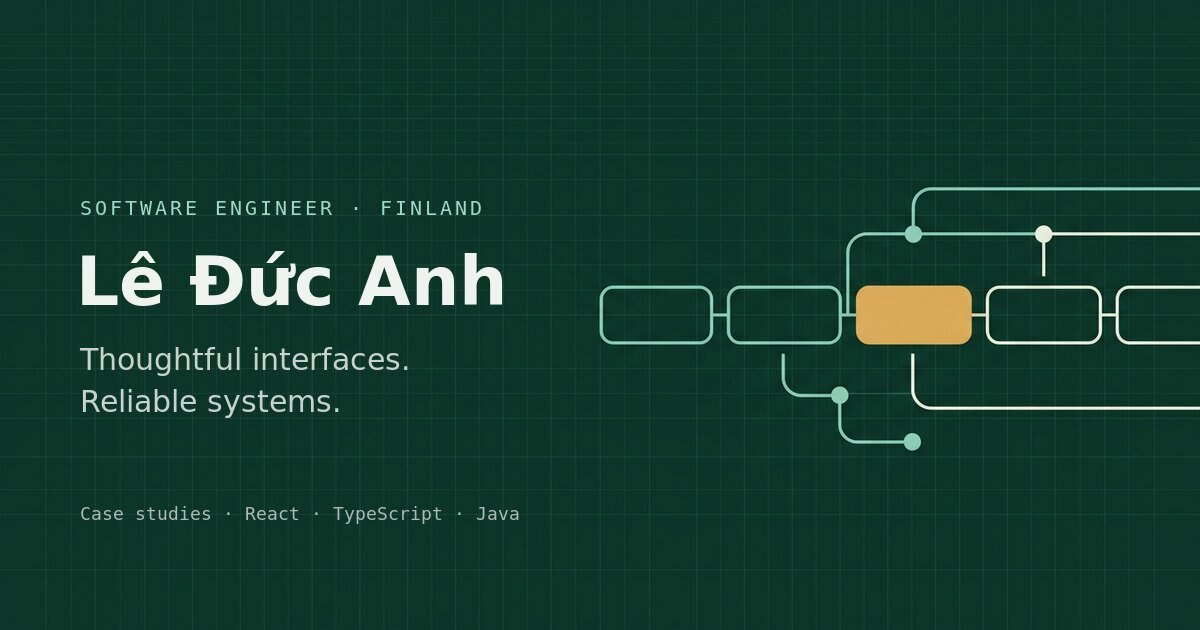
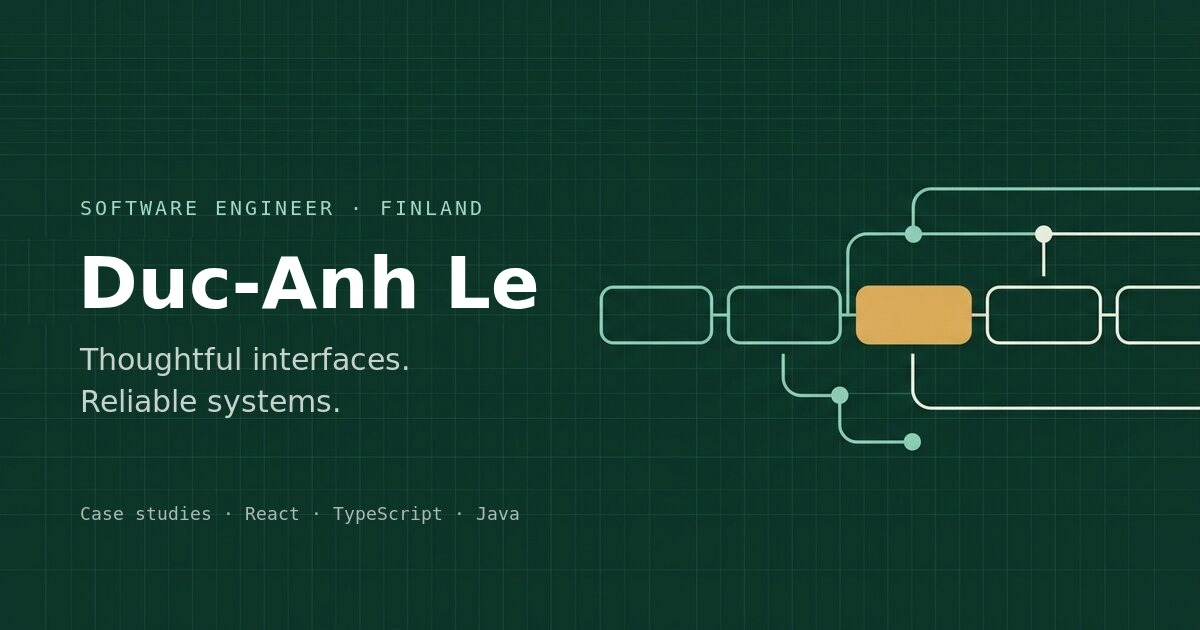
update from claude

Changed region(s): [[0.0617, 0.3921, 0.4625, 0.5127]]

diff --git a/src/content/content.test.ts b/src/content/content.test.ts
@@ -65,8 +65,7 @@ describe('content integrity', () => {
     }
   });
 
-  it('links the CV to a PDF that ships with the site', () => {
-    if (!profile.cvUrl) return;
+  it.skipIf(!profile.cvUrl)('links the CV to a PDF that ships with the site', () => {
     expect(profile.cvUrl).toMatch(/^\/[\w.-]+\.pdf$/);
     expect(existsSync(`public${profile.cvUrl}`), `${profile.cvUrl} is missing from public/`).toBe(true);
   });

diff --git a/playwright.config.ts b/playwright.config.ts
@@ -4,6 +4,7 @@ const port = 4173;
 
 export default defineConfig({
   testDir: 'e2e',
+  outputDir: 'node_modules/.playwright/test-results',
   fullyParallel: true,
   forbidOnly: !!process.env.CI,
   retries: process.env.CI ? 1 : 0,
